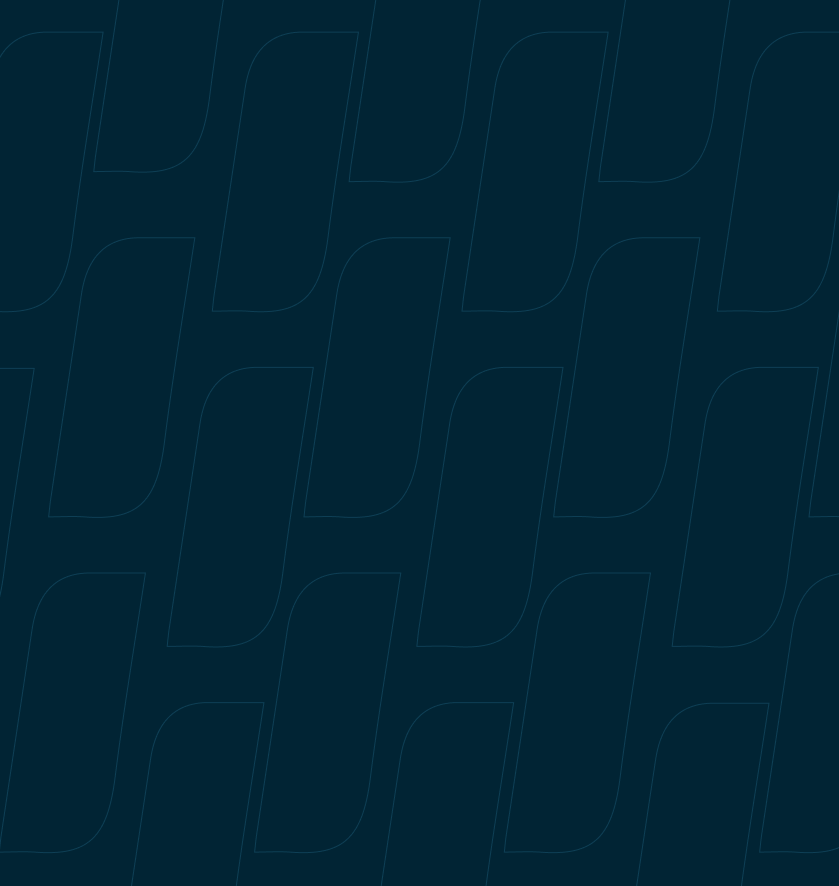
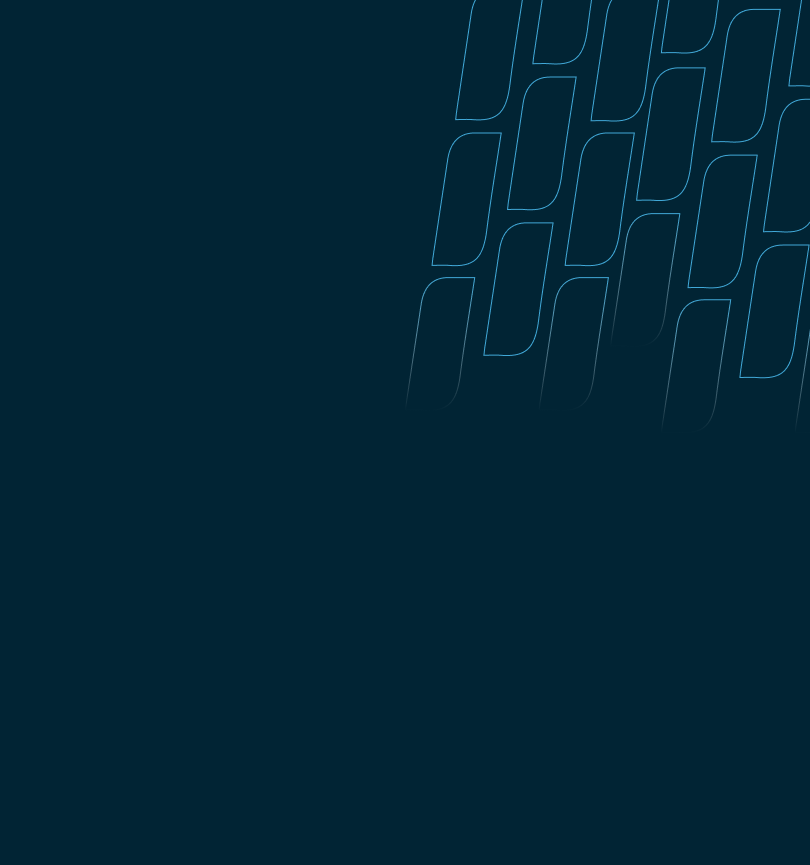
Update ContactPage styling, animations, and branding; update member data

diff --git a/components/ContactPage.tsx b/components/ContactPage.tsx
@@ -107,7 +107,7 @@ export default function ContactPage({ member }: Props) {
       ? [
         {
           label: "Website",
-          value: member.website.replace(/^https?:\/\//, ""),
+          value: member.website.replace(/^https?:\/\/(www\.)?/, "www.").replace(/\/$/, ""),
           href: member.website,
           icon: <Globe size={16} />,
           iconBg: "bg-[#41A9D8]",
@@ -143,7 +143,7 @@ export default function ContactPage({ member }: Props) {
 
   const actions = [
     { label: "Call", href: `tel:${member.phone}`, icon: <Phone size={15} />, enabled: !!member.phone },
-    { label: "Message", href: `sms:${member.phone}`, icon: <MessageSquare size={15} />, enabled: !!member.phone },
+
     { label: "Email", href: `mailto:${member.email}`, icon: <Mail size={15} />, enabled: !!member.email },
     { label: "Website", href: member.website ?? "#", icon: <Globe size={15} />, enabled: !!member.website, external: true },
     { label: "LinkedIn", href: member.linkedin ?? "#", icon: <LinkedInIcon size={15} />, enabled: !!member.linkedin, external: true },
@@ -172,12 +172,13 @@ export default function ContactPage({ member }: Props) {
       >
         {/* Parallax background */}
         <motion.div
-          className="absolute inset-0 will-change-transform"
+          className="absolute inset-0 will-change-transform pointer-events-none"
           style={{ y: bgY, scale: bgScale }}
         >
-          <div
-            className="absolute inset-0 bg-cover bg-center"
-            style={{ backgroundImage: "url('/assets/bg-contact.png')" }}
+          <img
+            src="/assets/bg-contact.png"
+            alt=""
+            className="absolute inset-0 w-full h-full object-cover object-center"
           />
         </motion.div>
 
@@ -193,24 +194,13 @@ export default function ContactPage({ member }: Props) {
           />
         </motion.div>
 
-
-
         {/* ── Hero center ── */}
         <motion.div
           className="relative z-10 flex-1 flex flex-col items-center justify-end px-6 pt-24 pb-28 gap-0"
-          style={{
-            opacity: heroContentOpacity,
-            y: heroContentY,
-            x: heroContentX
-          }}
+          initial={false}
         >
           {/* Avatar */}
-          <motion.div
-            className="relative mb-4"
-            initial={{ scale: 0.5, opacity: 0 }}
-            animate={{ scale: 1, opacity: 1 }}
-            transition={{ type: "spring", stiffness: 200, damping: 18, delay: 0.1 }}
-          >
+          <div className="relative mb-4">
             {/* Ambient glow */}
             <div
               className="absolute inset-0 rounded-full blur-2xl opacity-60 scale-125"
@@ -246,80 +236,57 @@ export default function ContactPage({ member }: Props) {
             {/* Pulsing presence dot */}
             <div className="absolute bottom-1 right-1 z-20">
               <span className="relative flex w-4 h-4">
-                <span className="animate-ping absolute inset-0 rounded-full bg-emerald-400 opacity-70" />
+                <motion.span
+                  className="absolute inset-0 rounded-full bg-emerald-400"
+                  animate={{ 
+                    scale: [1, 2.2], 
+                    opacity: [0.5, 0] 
+                  }}
+                  transition={{ 
+                    duration: 2, 
+                    repeat: Infinity, 
+                    repeatType: "loop",
+                    ease: "easeOut" 
+                  }}
+                />
                 <span className="relative w-4 h-4 rounded-full bg-emerald-500 border-[2px] border-white shadow-lg" />
               </span>
             </div>
-          </motion.div>
+          </div>
 
           {/* Name */}
-          <motion.h1
-            className="text-[2.2rem] font-black text-white text-center leading-[1.1] tracking-tight"
-            initial={{ opacity: 0, y: 20 }}
-            animate={{ opacity: 1, y: 0 }}
-            transition={{ delay: 0.25, duration: 0.6, ease }}
-          >
-            {member.firstName}{" "}
-            <span className="text-transparent bg-clip-text"
-              style={{
-                backgroundImage: "linear-gradient(90deg, #fff 0%, rgba(255,255,255,0.55) 100%)",
-                WebkitBackgroundClip: "text",
-                WebkitTextFillColor: "transparent",
-              }}
-            >
-              {member.lastName}
-            </span>
-          </motion.h1>
-
-          {/* Floating action icon circles — below name, horizontal row */}
-          <motion.div
-            className="flex flex-row gap-3 mt-4 justify-center"
-            initial={{ opacity: 0, y: 12 }}
-            animate={{ opacity: 1, y: 0 }}
-            transition={{ delay: 0.52, duration: 0.55, ease }}
-          >
-            {actions.map(({ label, href, icon, enabled, external }) =>
-              enabled ? (
-                <a
-                  key={label}
-                  href={href}
-                  target={external ? "_blank" : undefined}
-                  rel="noopener noreferrer"
-                  aria-label={label}
-                  className="w-11 h-11 rounded-full bg-white/15 border border-white/25 backdrop-blur-md text-white flex items-center justify-center active:scale-90 transition-transform hover:bg-white/25"
-                >
-                  {icon}
-                </a>
-              ) : null
-            )}
-          </motion.div>
+          <h1 className="text-[2.2rem] font-bold text-white text-center leading-[1.1] tracking-tight">
+            {member.firstName} {member.lastName}
+          </h1>
 
           {/* Job title */}
           {member.jobTitle && (
-            <motion.p
-              className="mt-3 text-[13px] text-white/65 font-medium text-center tracking-wide"
-              initial={{ opacity: 0, y: 16 }}
-              animate={{ opacity: 1, y: 0 }}
-              transition={{ delay: 0.35, duration: 0.5, ease }}
-            >
+            <p className="mt-[5px] text-[15px] text-white/70 font-medium text-center tracking-wide">
               {member.jobTitle}
-            </motion.p>
+            </p>
           )}
 
-          {/* Company chip */}
-          {member.company && (
-            <motion.div
-              className="mt-3 inline-flex items-center gap-1.5 px-3 py-1.2 rounded-full border border-white/20 bg-white/10 backdrop-blur-md"
-              initial={{ opacity: 0, scale: 0.85 }}
-              animate={{ opacity: 1, scale: 1 }}
-              transition={{ delay: 0.44, duration: 0.45, ease }}
-            >
-              <Building2 size={10} className="text-white/60" />
-              <span className="text-[10px] font-semibold text-white/85 tracking-wider">
-                {member.company}
-              </span>
-            </motion.div>
-          )}
+          {/* Floating action icon circles — horizontal row */}
+          <div className="flex flex-row gap-6 mt-8 justify-center">
+            {actions.map(({ label, href, icon, enabled, external }) =>
+              enabled ? (
+                <div key={label} className="flex flex-col items-center gap-2">
+                  <a
+                    href={href}
+                    target={external ? "_blank" : undefined}
+                    rel="noopener noreferrer"
+                    aria-label={label}
+                    className="w-12 h-12 rounded-full bg-white/15 border border-white/25 backdrop-blur-md text-white flex items-center justify-center active:scale-90 transition-transform hover:bg-white/25"
+                  >
+                    {icon}
+                  </a>
+                  <span className="text-[9px] uppercase tracking-[0.12em] font-bold text-white/40">
+                    {label}
+                  </span>
+                </div>
+              ) : null
+            )}
+          </div>
 
         </motion.div>
 
@@ -367,6 +334,11 @@ export default function ContactPage({ member }: Props) {
             {rows.map((row, i) => {
               const content = (
                 <>
+                  <div className="flex items-center gap-2 flex-shrink-0 relative z-10">
+                    <div className="w-10 h-10 rounded-full bg-[#41A9D8]/20 border border-[#41A9D8]/40 backdrop-blur-md text-[#41A9D8] flex items-center justify-center">
+                      {row.icon}
+                    </div>
+                  </div>
                   <div className="flex-1 min-w-0 py-0.5">
                     <p className="text-[9.5px] font-black text-slate-400/70 uppercase tracking-[0.18em] leading-none mb-1">
                       {row.label}
@@ -389,9 +361,6 @@ export default function ContactPage({ member }: Props) {
                         <WhatsAppIcon />
                       </a>
                     )}
-                    <div className="w-10 h-10 rounded-full bg-[#41A9D8]/20 border border-[#41A9D8]/40 backdrop-blur-md text-[#41A9D8] flex items-center justify-center">
-                      {row.icon}
-                    </div>
                   </div>
                 </>
               );
@@ -490,7 +459,7 @@ export default function ContactPage({ member }: Props) {
             {/* Glass shine */}
             <div className="absolute inset-0 bg-gradient-to-r from-transparent via-white/8 to-transparent -skew-x-12 pointer-events-none" />
             <Plus size={17} strokeWidth={2.5} />
-            Save to Contacts
+            Add Contact
           </motion.button>
         </div>
       </div>
